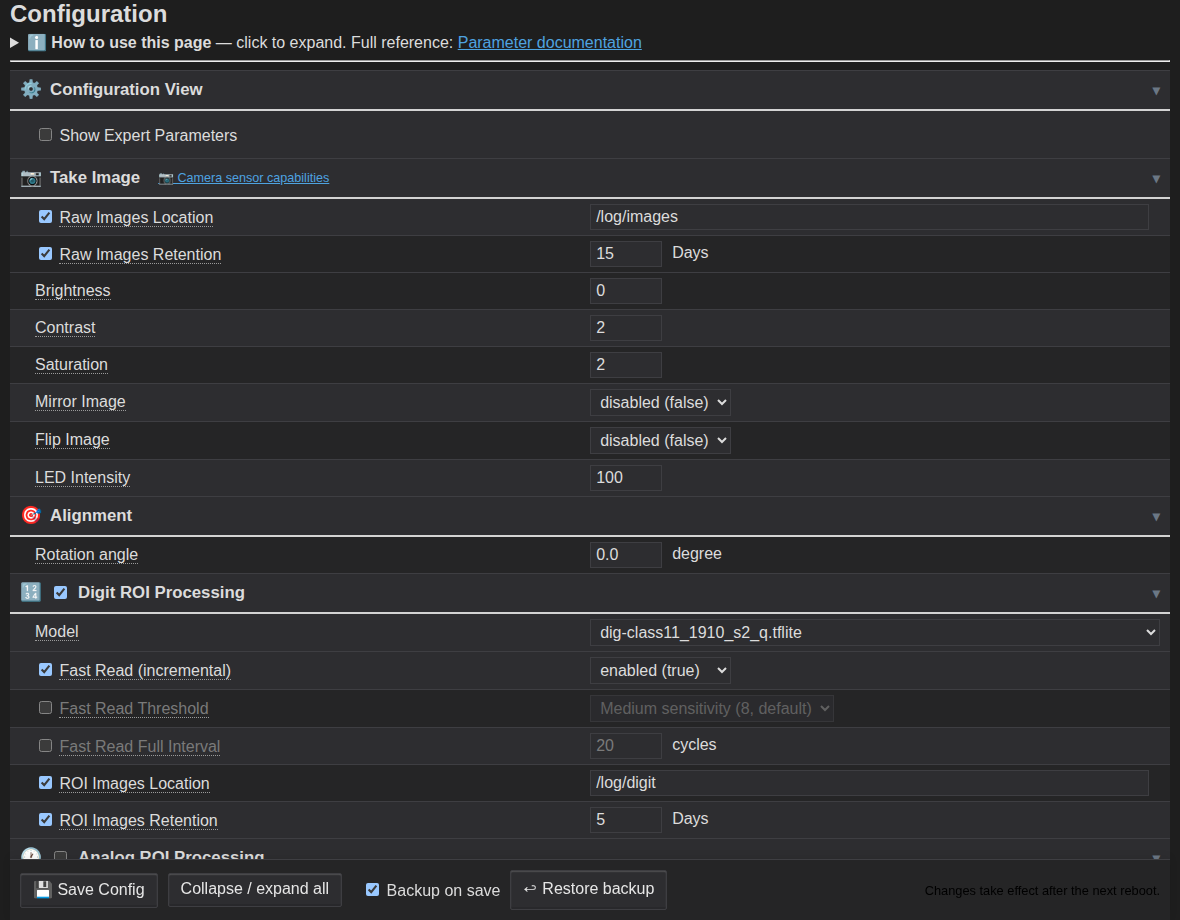
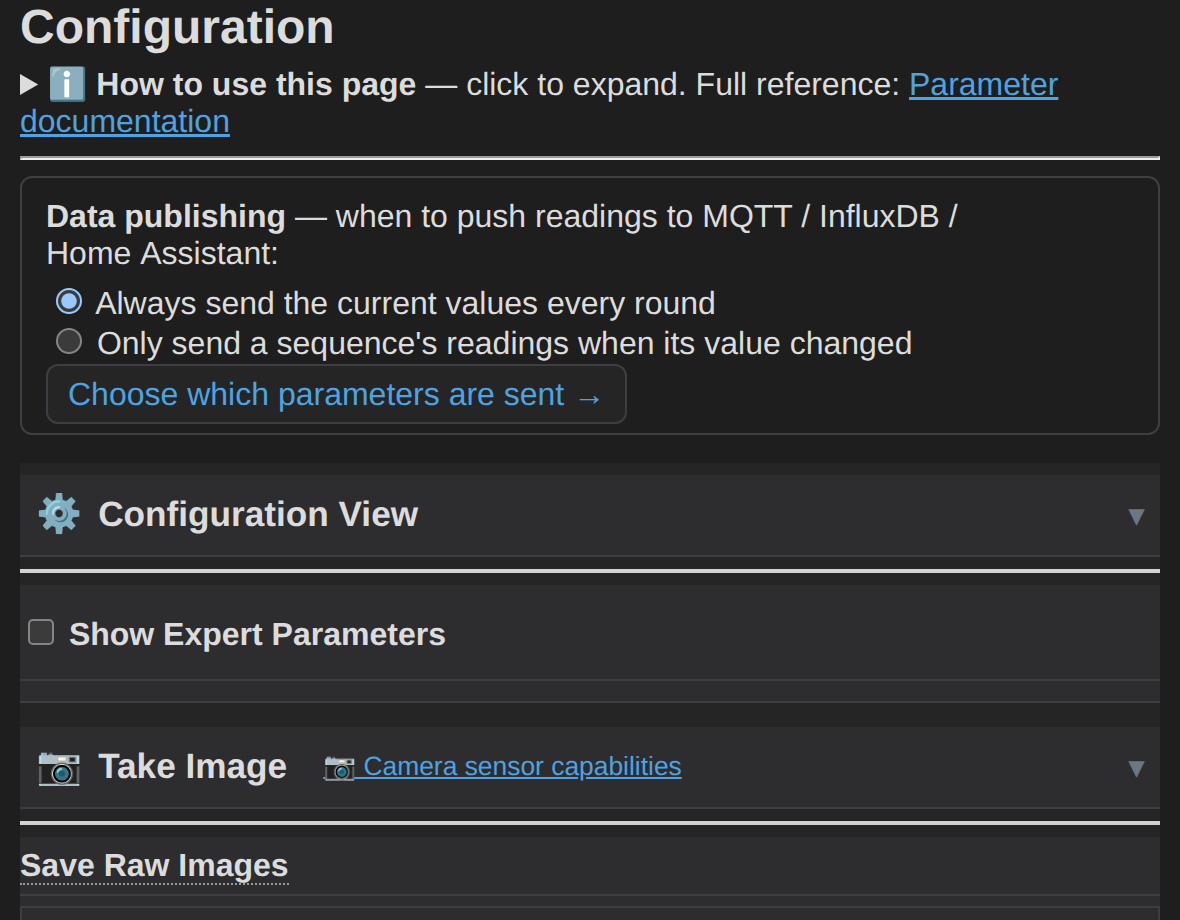
docs(release): v17.1.0 — changelog, README, board matrix, screenshots
Promote the Unreleased section to 17.1.0 (2026-06-26) and document this
release: per-LED external-strip control + alignment grid; ROI editor overhaul
(numbered chips, on-screen model select, no-reboot edits, Auto-tune); configurable
CPU frequency + Dynamic Frequency Scaling; FastRead/accuracy improvements
(confidence gating, temporal voting); and rate-limit correctness fixes. Refresh
the ROI-editor + configuration screenshots for the new UI.

diff --git a/Changelog.md b/Changelog.md
@@ -1,4 +1,4 @@
-# [Unreleased]
+# [17.1.0] - 2026-06-26
 
 ### General
 
@@ -23,6 +23,59 @@
 - **ESP32-S3 onboard RGB (GPIO48)**: a board-aware **`OnboardLED`** enable/disable toggle; the GPIO4
   flash-LED block is hidden on the S3 (GPIO4 is a camera pin there). The GPIO config section is now
   labelled **"LED Configuration"** with each LED enabled on its own.
+- **Per-LED on/off control of the external strip**: a new toggle grid (rendered as a **line, grid or
+  circle**, `LEDMask`/`LEDLayout`/`LEDLayoutCols`) lets you turn individual WS281x pixels on or off, on
+  both the config page and the camera-setup page. Each toggle drives the hardware **in realtime** via a
+  new `/ledstate` endpoint (no reboot), so capture-flash, status colours and the always-on mode all
+  honour the mask. The **5V power budget now counts only ENABLED LEDs** (not the strip length), and the
+  config page's "estimated peak current" readout updates live as you toggle.
+- **Always-on external LED** (`LEDAlwaysOn`, off by default): drives the strip continuously at
+  `LEDColor`, overriding the per-stage status colours, keeping it lit through capture, and — because the
+  scene is already lit — **skipping the pre-capture flash/settle delay**.
+- **Alignment-grid overlay on the camera-setup / live-stream page**: an optional SVG grid (off / 3×3 /
+  4×4 / 8×6, plus a centre cross) over the live image to help line up the camera and ROIs.
+- **External LED strip no longer goes dark after a `doInit`** (e.g. when saving ROI edits): the
+  persistent WS281x driver is now torn down and rebuilt on the reconfigured GPIO, instead of holding a
+  dead RMT binding that silently stopped lighting the strip.
+- **Configurable CPU frequency** (`CPUFrequency`, **80 / 160 / 240 MHz**): trade speed for power on any
+  board. A boot bug is fixed so the configured value now actually applies — the ESP32-S3 boots at
+  240 MHz, so a configured 160 was previously ignored there. On the **ESP32-S3** a new runtime
+  **`DynamicFrequencyScaling`** option (off by default) down-clocks to 80 MHz when idle and back up under
+  load; it is force-disabled on the ESP32-CAM, where the camera clock is APB-tied and scaling would
+  corrupt captures.
+
+### Recognition & accuracy
+
+- **Confidence-gated FastRead cache**: a digit read is only cached for reuse when its confidence clears
+  the history floor, so a single low-confidence misread can no longer be cached and replayed for the
+  rest of the FastRead interval — it is simply re-inferred next round.
+- **Temporal voting for low-confidence in-range digits**: when a digit reads 0–9 but below the
+  confidence floor and the recent history has a stable majority, the reported value is corrected to that
+  majority; a genuinely rolling digit has mixed history, so a real change is never masked.
+- **`DigitConfidenceThreshold`** (new, `[Digits]`, default 0 = off, wired into the config page): a
+  class-based-digit confidence floor — a read below it is marked unknown ("N") and resolved from
+  confident history + carry physics rather than committing a shaky value (the class-model analogue of
+  `CNNGoodThreshold`).
+- **High-sensitivity FastRead by default**: the change-detection default (`FastReadThreshold`) is now
+  **5 (High)** instead of 8 — a wrong "changed" decision only costs one extra inference, so erring
+  sensitive avoids skipping a real digit change.
+- **Faster recognition**: a purpose-built bilinear ROI→model-input downscale replaces the generic stb
+  resizer on the hot path, and the tflite model is now **loaded lazily** — a fully-cached FastRead round
+  does zero model load and skips the per-round model SD read.
+- **Faster alignment**: the template-match search drops the per-pixel `pow()` for an integer `d*d` and
+  adds branch-and-bound (abandon a candidate once it can't beat the current best). The match result is
+  identical; on the ESP32-CAM this cut the alignment step (≈85 % of every round) and brought a ~22 s
+  round down to roughly 5 s.
+- **Rate-limit: an unset pipe diameter no longer caps the rate at 0 flow**: with no pipe diameter /
+  service amps configured, the physical-maximum ceiling is treated as *unknown* instead of being
+  computed from a zero, so valid readings are no longer rejected as "exceeds physical max".
+- **Pipe-diameter override is now opt-in**: selecting a Meter Type still suggests a Maximum Rate but no
+  longer force-enables (and saves blank) the raw pipe-diameter / service-amps override — an untouched
+  override stays commented out so the firmware uses its own default.
+- **Confident reads can override a rate-limit rejection**: when the last 3 reads of a sequence all meet
+  `DigitConfidenceThreshold`, a large jump is accepted (and logged) instead of being clamped back, for
+  both the physical-max ceiling and the user `MaxRateValue` check. Inert when the threshold is off, and
+  it never fires for analog-only sequences or in the first rounds after boot.
 
 ### Connectivity & security
 
@@ -44,6 +97,36 @@
   per-folder download icon on each sub-folder row (`GET /fileserver/<dir>/?zip=1`). The archive is built
   on-device with the existing miniz writer and streamed as `<foldername>.zip`; `wlan.ini` is always
   excluded.
+- **Reworked ROI editor**: the digit and analog editors swap the name dropdown for a row of clickable
+  **numbered chips** and **auto-name** ROIs (`<sequence><position>`), so you no longer manage ROI names.
+  You can now **pick the digit/analog model** right on the editor screen (a configured model missing
+  from the SD card is preserved as a `(missing)` option), edit the **Decimal Shift** inline with a live
+  multiplier preview, and the **layout-lock preferences** (lock aspect ratio / synchronize / keep
+  equidistance / spacing) are remembered across visits.
+- **Apply ROI / sequence edits without a reboot**: saving the digit or analog editor now re-inits the
+  processing flow via `/doinit` (~1–2 s, round-safe under the flow lock) instead of requiring a full
+  reboot, falling back to a reboot prompt if the live re-init fails.
+- **Auto-tune a digit ROI**: a new **Auto-tune ROI** button pauses processing, captures and aligns a
+  single fresh image, drops the layout-lock constraints, and searches nearby positions then sizes
+  (reusing the per-ROI examine test against that one static capture) for the box the CNN reads with the
+  **highest confidence** — ignoring blank `N`/no-digit reads (which the model can report at ~100&nbsp;%)
+  so the box can't drift off the digit. It applies the winning box for you to review and Save, and
+  deliberately **leaves processing paused** (a new **Resume processing** button restarts it) so repeated
+  tuning passes can't collide with a running round.
+- **Persisted system settings**: **CPU Frequency**, **Dynamic Frequency Scaling**, **Backup Interval**,
+  **Time Server** and **Hostname** now reliably save (some previously needed an easily-missed enable
+  checkbox or had no save wiring at all). **Hostname** is now a non-expert field, and several
+  per-sequence Meter Type / leak-detection settings that were silently dropped now load and save.
+- **More robust Save**: one unknown/stale parameter no longer aborts the whole Save (so every other
+  setting still saves); the **Meter Type (Utility)** select is no longer greyed-out/unselectable on
+  load, and selecting a Meter Type auto-enables its matching sub-field (pipe diameter / service amps).
+- **Capture controls**: **`WaitBeforeTakingPicture = 0`** now disables the pre-capture flash/settle
+  delay (it used to be forced back to 2 s); explicit **Save Raw Images** and **Save ROI Images** on/off
+  toggles (both default **off**) put per-round image logging under direct control regardless of any
+  configured location; and the **overview** gains a **"Show ROI overlay boxes"** toggle (remembered per
+  browser) to view the clean aligned image.
+- **Tooltip readability**: config-page help popups now use dark text (no longer light-grey on white),
+  hide the missing-font glyph icons that rendered as empty boxes, and sit **above the sticky Save bar**.
 
 ### Reliability
 

diff --git a/docs/BOARD-FEATURE-MATRIX.md b/docs/BOARD-FEATURE-MATRIX.md
@@ -14,7 +14,7 @@ between the ESP32-CAM and the ESP32-S3 variants.
 | **Build selector** | default (`idf.py` esp32) | `IDF_TARGET=esp32s3` | `IDF_TARGET=esp32s3 AIOTEDGE_S3_FLASH=16mb` |
 | **Flash size** | 4 MB | 8 MB | 16 MB |
 | **PSRAM** | ~4 MB mapped, **quad**, 40 MHz | 8 MB, **octal (OPI)**, 80 MHz | 8 MB octal, 80 MHz |
-| **CPU frequency** | 160 MHz (IDF default) | **240 MHz** | 240 MHz |
+| **CPU frequency** | configurable `CPUFrequency` **80 / 160 / 240 MHz** (default 160) | configurable 80 / 160 / 240 (default 160; boots at 240) | same |
 | **Main task stack** | 3584 B (default) | **8192 B** | 8192 B |
 | **Partition table** | `partitions.csv` | `partitions_esp32s3_8mb.csv` | `partitions_esp32s3_16mb.csv` |
 | **OTA app slots** | dual-OTA, 1.9 MB each | dual-OTA, **2.5 MB** each | dual-OTA, **3 MB** each |
@@ -26,10 +26,11 @@ between the ESP32-CAM and the ESP32-S3 variants.
 | **Camera PWDN reset (stuck-sensor auto-recovery)** | ✅ `CAM_PIN_PWDN = GPIO 32` — firmware power-cycles a wedged OV2640 over the PWDN line before init | ❌ no PWDN pin (`GPIO_NUM_NC`) — software reset only | ❌ same |
 | **Status / flash LED** | PWM LED (LEDC); `USE_PWM_LEDFLASH`; flash GPIO4 | **WS2812 RGB** on GPIO48 (RMT); flash via GPIO handler | same |
 | **Internal flash LED brightness** | ✅ `LEDIntensity` 0–100 % (PWM duty) | 🟡 onboard WS2812 (no PWM %; out of scope) | 🟡 same |
-| **External LED strip (WS281x) brightness + 5V budget** | ✅ `LEDBrightness` % + draw clamped to `EXTERNAL_LED_5V_BUDGET_MA` = **500 mA**; `LEDPowerInjection`/`LEDMaxCurrent` override | ✅ same (flat budget) | ✅ same |
+| **External LED strip (WS281x) brightness + 5V budget** | ✅ `LEDBrightness` % + draw clamped to `EXTERNAL_LED_5V_BUDGET_MA` = **500 mA** (budget counts **enabled** LEDs); `LEDPowerInjection`/`LEDMaxCurrent` override | ✅ same (flat budget) | ✅ same |
+| **External LED per-pixel control** | ✅ `LEDMask` per-pixel on/off via line/grid/circle toggles (`LEDLayout`/`LEDLayoutCols`), realtime via `/ledstate`; `LEDAlwaysOn` continuous mode | ✅ same | ✅ same |
 | **RGB Wi-Fi status feedback** | ❌ (simple LED) | ✅ `driveSystemStatusWs281x()` (orange/red/green) | ✅ |
 | **Info-page "Hardware details" section** | ❌ hidden (S3-gated) | ✅ shown | ✅ shown |
-| **Power management (DFS/light-sleep)** | ❌ **not feasible** (no XTAL LEDC clock for XCLK → APB-tied) | 🟡 **feasible candidate** (XTAL LEDC clock; needs HW validation) | 🟡 same |
+| **Power management (DFS/light-sleep)** | ❌ **not feasible** (no XTAL LEDC clock for XCLK → APB-tied; `DynamicFrequencyScaling` force-disabled with a WARN) | ✅ runtime **`DynamicFrequencyScaling`** option (off by default; idle down-clock to 80 MHz, scales up under load). Light-sleep still out (dual-core SMP) | ✅ same |
 | **SPI flash 120 MHz** | ❌ (80 MHz max) | ❌ blocked by octal-PSRAM@80 (compile-time); viable only on quad/no-PSRAM S3 | ❌ same |
 | **OTA** | ✅ dual-OTA + rollback | ✅ dual-OTA + rollback | ✅ dual-OTA + rollback |
 
@@ -39,7 +40,8 @@ for drift:
 OTA app rollback (auto-recover a crash-looping update) · `esp_crt_bundle` (verified MQTTS/HTTPS without
 a manual cert) · async MJPEG live stream (non-blocking UI) · `esp_log` v2 · heap failed-alloc hook ·
 `ICameraBackend` seam · confidence-vote post-processing (§10, default off) · changed-digit overview
-highlight · pause-processing menu · scheduling · FastRead · dark mode · the STBI decode safety net.
+highlight · pause-processing menu · scheduling · FastRead · dark mode · the STBI decode safety net ·
+ROI editor (numbered-chip switcher, on-screen model select, **Auto-tune ROI**, no-reboot Save→`/doinit`).
 
 ## Notes / known drift risks
 - **ESP32-WROVER** (`BOARD_WROVER_KIT`) is also `esp32` and feature-equivalent to the ESP32-CAM, but
@@ -50,4 +52,4 @@ highlight · pause-processing menu · scheduling · FastRead · dark mode · the
 - Any new `#if defined(BOARD_ESP32S3_CAM)` / `USE_FLASH_FS` / `CONFIG_IDF_TARGET_ESP32S3` gate is, by
   definition, board drift → **add/refresh a row here in the same change.**
 
-_Last updated: 2026-06-15._
+_Last updated: 2026-06-26._

diff --git a/README.md b/README.md
@@ -144,6 +144,13 @@ There are several options for what to do with that value:
 ## What's New in v17 🆕
 A summary of the functionality changes since **v16**. See the [Changelog](Changelog.md) for the full detail.
 
+### ✨ v17.1
+- **Per-LED control of the external strip** – turn individual WS281x pixels on/off from a line/grid/circle toggle widget (on the config *and* camera-setup pages) that updates the hardware in realtime; the 5V power budget now counts only the **enabled** LEDs. Plus an optional **alignment-grid overlay** on the live stream to line up the camera.
+- **ROI editor overhaul** – an **Auto-tune** button that searches nearby positions/sizes for the highest-confidence digit box, a numbered-chip ROI switcher with auto-named ROIs, on-screen model selection and editable decimal shift, and **ROI/sequence edits that apply without a reboot** (Save re-inits the flow live).
+- **Configurable CPU frequency** (80 / 160 / 240 MHz) on every board, plus a runtime **Dynamic Frequency Scaling** option on the ESP32-S3 (idle down-clock). A boot bug that ignored the configured frequency on the S3 is fixed.
+- **FastRead & accuracy improvements** – confidence-gated FastRead caching, temporal voting for low-confidence digits, a tunable per-digit confidence threshold, a High-sensitivity default, plus a faster ROI downscale and lazy model load.
+- **Rate-limit correctness** – an unset pipe diameter no longer caps valid readings at zero flow, the pipe-diameter override is now opt-in, and three consecutive confident reads can override a rate-limit rejection.
+
 ### 🧩 Hardware & platform
 - Rebuilt on **ESP-IDF 6.0.1** (modern GCC&nbsp;15 / C++ toolchain).
 - **New: ESP32-S3 support** (8&nbsp;MB and 16&nbsp;MB variants) alongside the classic **ESP32-CAM**. ESP32-S3 boards run **with or without an SD card** — the web UI, CNN models and configuration can live in on-board flash. The **ESP32-WROVER** is also supported.
